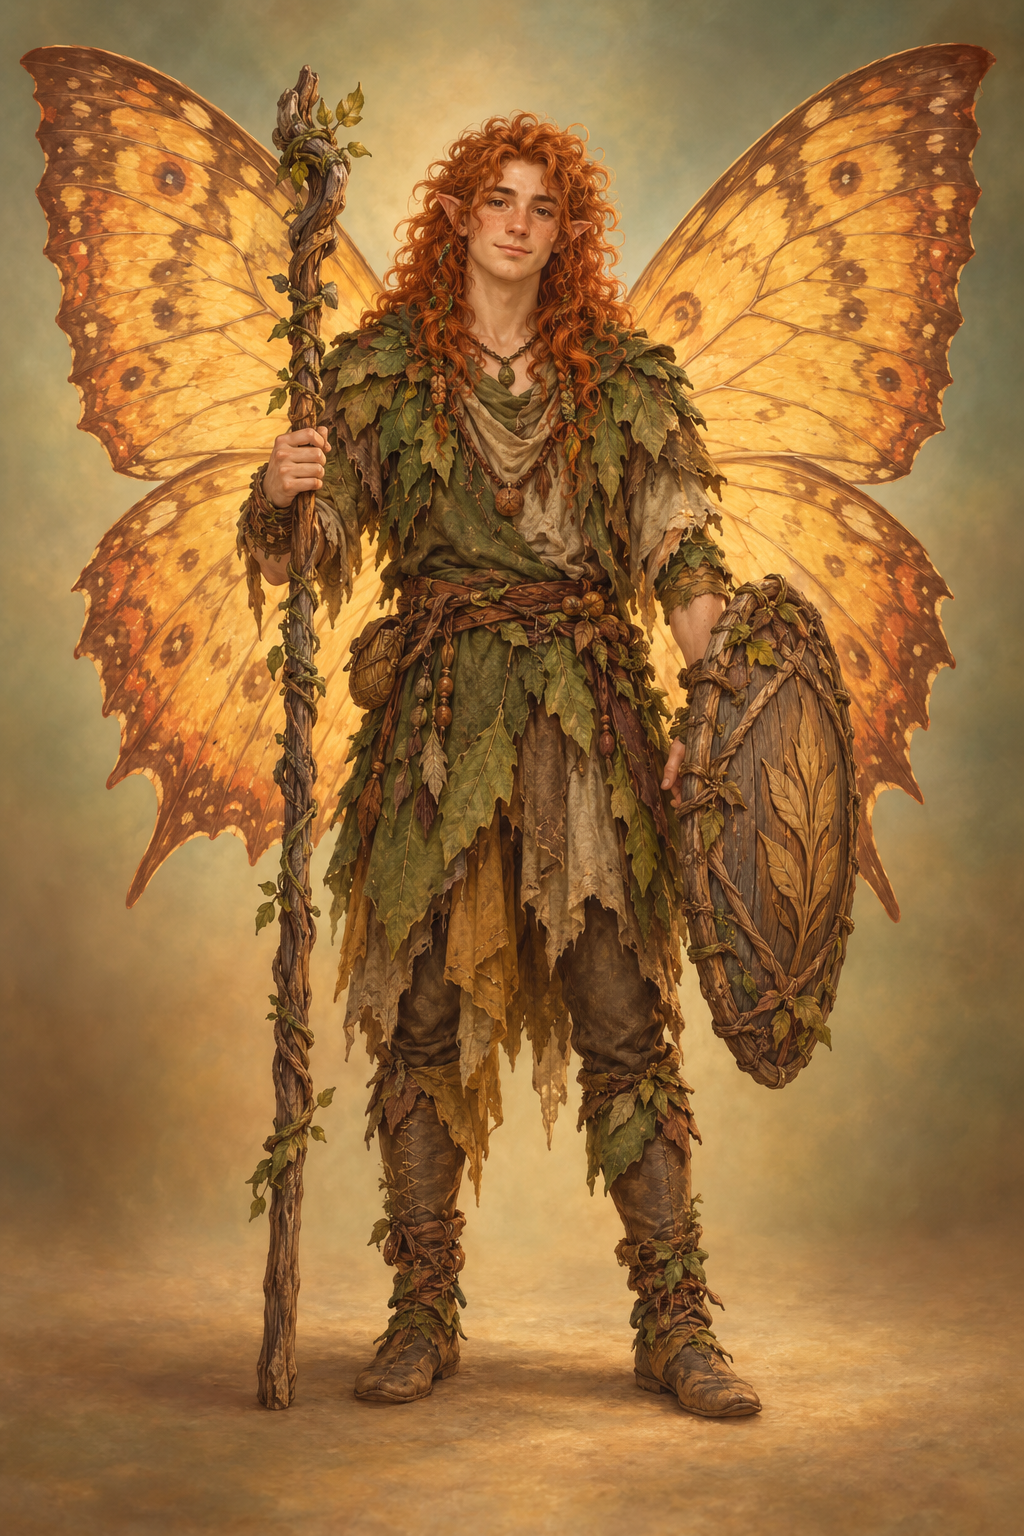
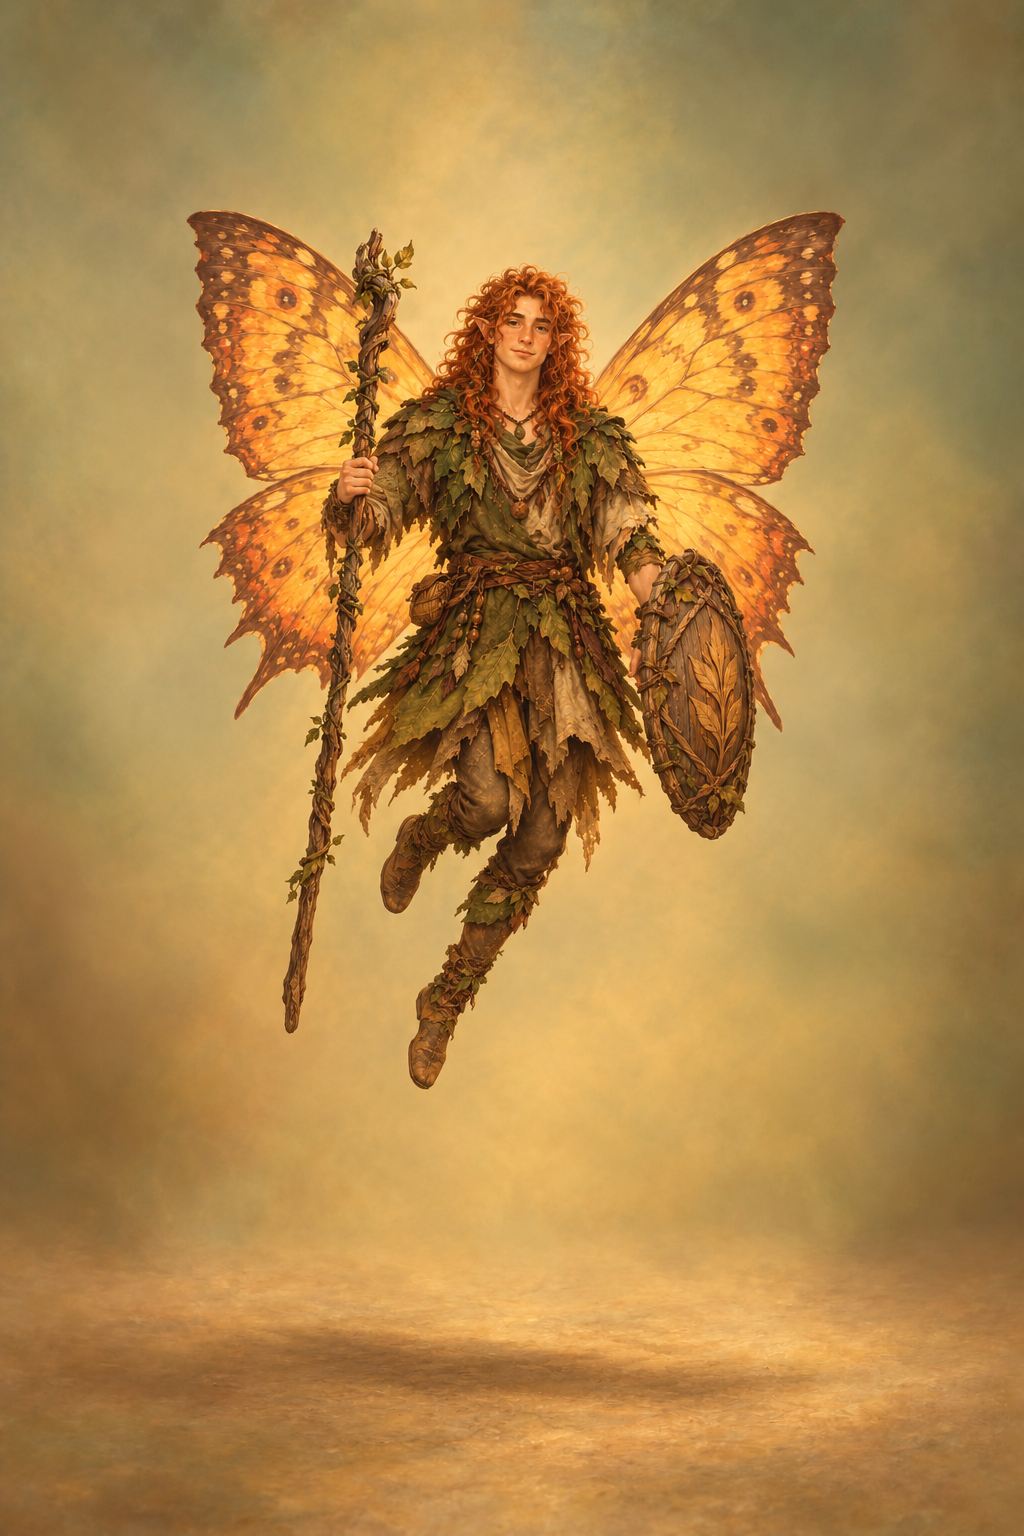
Modifications on website

diff --git a/index.html b/index.html
@@ -96,14 +96,14 @@
 
         <div class="chronicle-section-label"><span>II · Coming next</span><i aria-hidden="true"></i></div>
 
-        <button class="chronicle-card chronicle-card-grimwood" type="button" data-chronicle="grimwood" aria-label="Enter Into the Grimwood Manor, created by Gianluca Amato. Starts 31 October 2026">
+        <button class="chronicle-card chronicle-card-grimwood" type="button" data-chronicle="grimwood" aria-label="Enter Into the Grimwood Manor ongoing mini campaign, created by Gianluca Amato">
           <span class="chronicle-card-art-wrap">
             <img class="chronicle-card-art" src="assets/grimwood-manor-title.png" width="1672" height="941" alt="An Invitation to Grimwood Manor, a shadowed estate beyond ornate gates" fetchpriority="high" decoding="async" />
           </span>
           <span class="chronicle-card-copy">
             <span class="chronicle-card-meta">
-              <span class="chronicle-type">Canon Halloween One-Shot</span>
-              <span class="chronicle-status chronicle-status-upcoming">Starts <time datetime="2026-10-31">31 October</time></span>
+              <span class="chronicle-type">Mini Campaign</span>
+              <span class="chronicle-status chronicle-status-ongoing">Ongoing</span>
             </span>
             <strong>Into the Grimwood Manor</strong>
             <span class="collection-card-note">An invitation awaits.</span>
@@ -344,7 +344,7 @@
         <span class="chronicle-nav-icon chronicle-nav-icon-grimwood" aria-hidden="true"><img src="assets/nav-icons/grimwood.webp" width="384" height="384" alt="" decoding="async"></span>
         <span>
           <strong>Into the Grimwood Manor</strong>
-          <small>Canon Halloween One-Shot</small>
+          <small>Mini Campaign</small>
         </span>
         <span class="brand-switch-glyph" aria-hidden="true">↩</span>
       </button>
@@ -467,12 +467,12 @@
       </section>
 
       <section class="grimwood-page" id="grimwood-sessions">
-        <header class="section-header grimwood-reveal"><p class="eyebrow">One-Shot Chronicle</p><h2>Session Archive</h2></header>
+        <header class="section-header grimwood-reveal"><p class="eyebrow">Mini Campaign Chronicle</p><h2>Session Archive</h2></header>
         <div class="chronicle-empty grimwood-reveal"><span>✦</span><strong>The Archive Is Empty</strong><p>The session record will begin once Into the Grimwood Manor is played.</p></div>
       </section>
     </main>
 
-    <footer><span>INTO THE GRIMWOOD MANOR</span><small>Canon Halloween One-Shot Chronicle</small></footer>
+    <footer><span>INTO THE GRIMWOOD MANOR</span><small>Mini Campaign Chronicle</small></footer>
   </div>
 
 
@@ -813,4 +813,3 @@
   <script src="chronicle-tools.js?v=20261018-npc-directory"></script>
 </body>
 </html>
-

diff --git a/script.js b/script.js
@@ -403,19 +403,7 @@ const GRIMWOOD_CHARACTERS = [
       "Now he wanders beyond the Iron Peaks, following omens wherever they lead in hopes of uncovering the greater purpose behind his visions and finding where fate truly intends him to go."
     ]
   },
-  {
-    "slug": "lucien-veyr",
-    "name": "Lucien Veyr",
-    "player": "Remsi Agius",
-    "cardImage": "assets/grimwood/characters/cards/lucien-veyr.webp",
-    "fullImage": "assets/grimwood/characters/full/lucien-veyr.webp",
-    "className": "Rogue",
-    "subclass": "Soulknife",
-    "accent": "166, 96, 218",
-    "description": [
-      "Lucien Veyr is a quiet, sharp-eyed High Elf rogue who works as an infiltrator and scout for adventuring parties. Calm, observant, and hard to read, he prefers precision over brute force, using stealth, psychic blades, and subtle illusions to control a fight before his enemies even realize he is there. Beneath the polished manners and dark clothing is a seasoned adventurer who notices everything and trusts very little."
-    ]
-  },
+
   {
     "slug": "edwin-everbane",
     "name": "Edwin Everbane",
@@ -434,7 +422,7 @@ const GRIMWOOD_CHARACTERS = [
   }
 ];
 
-const ASSET_VERSION = '20261005-lucienpose1';
+const ASSET_VERSION = '20261101-grimwoodroster';
 const asset = path => `${path}?v=${ASSET_VERSION}`;
 
 const chronicleSelector = document.getElementById('chronicle-selector');
